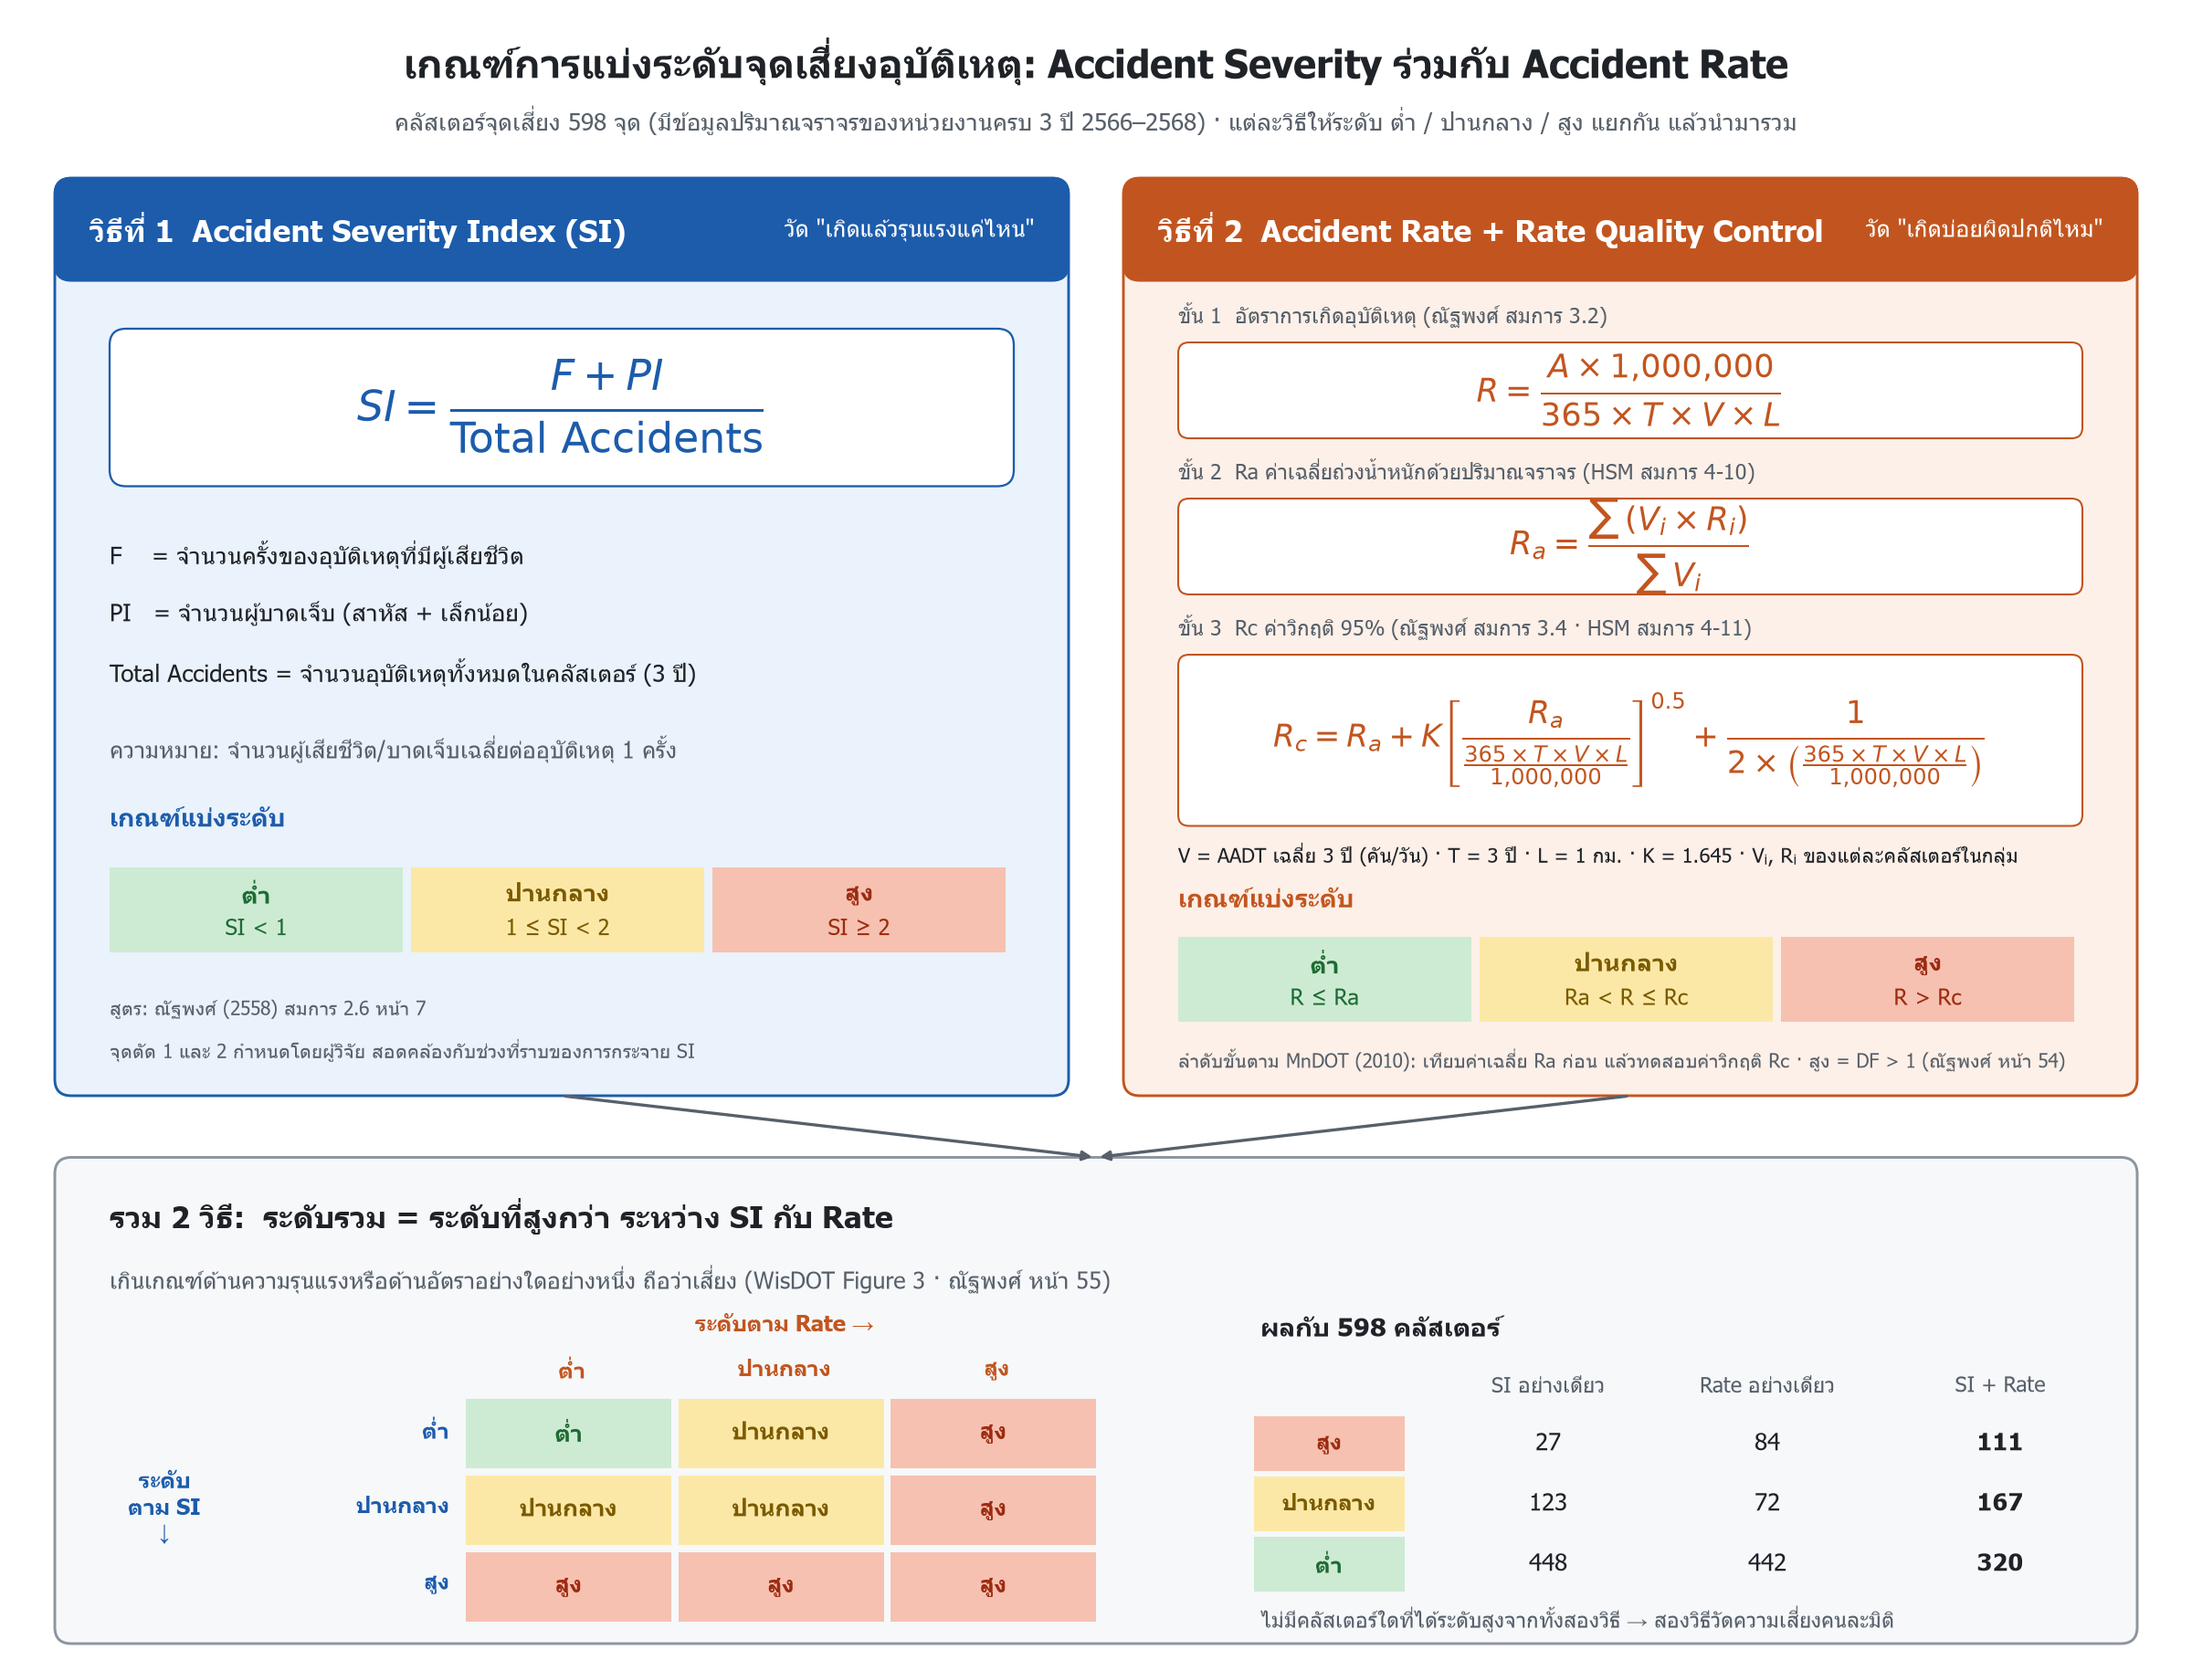
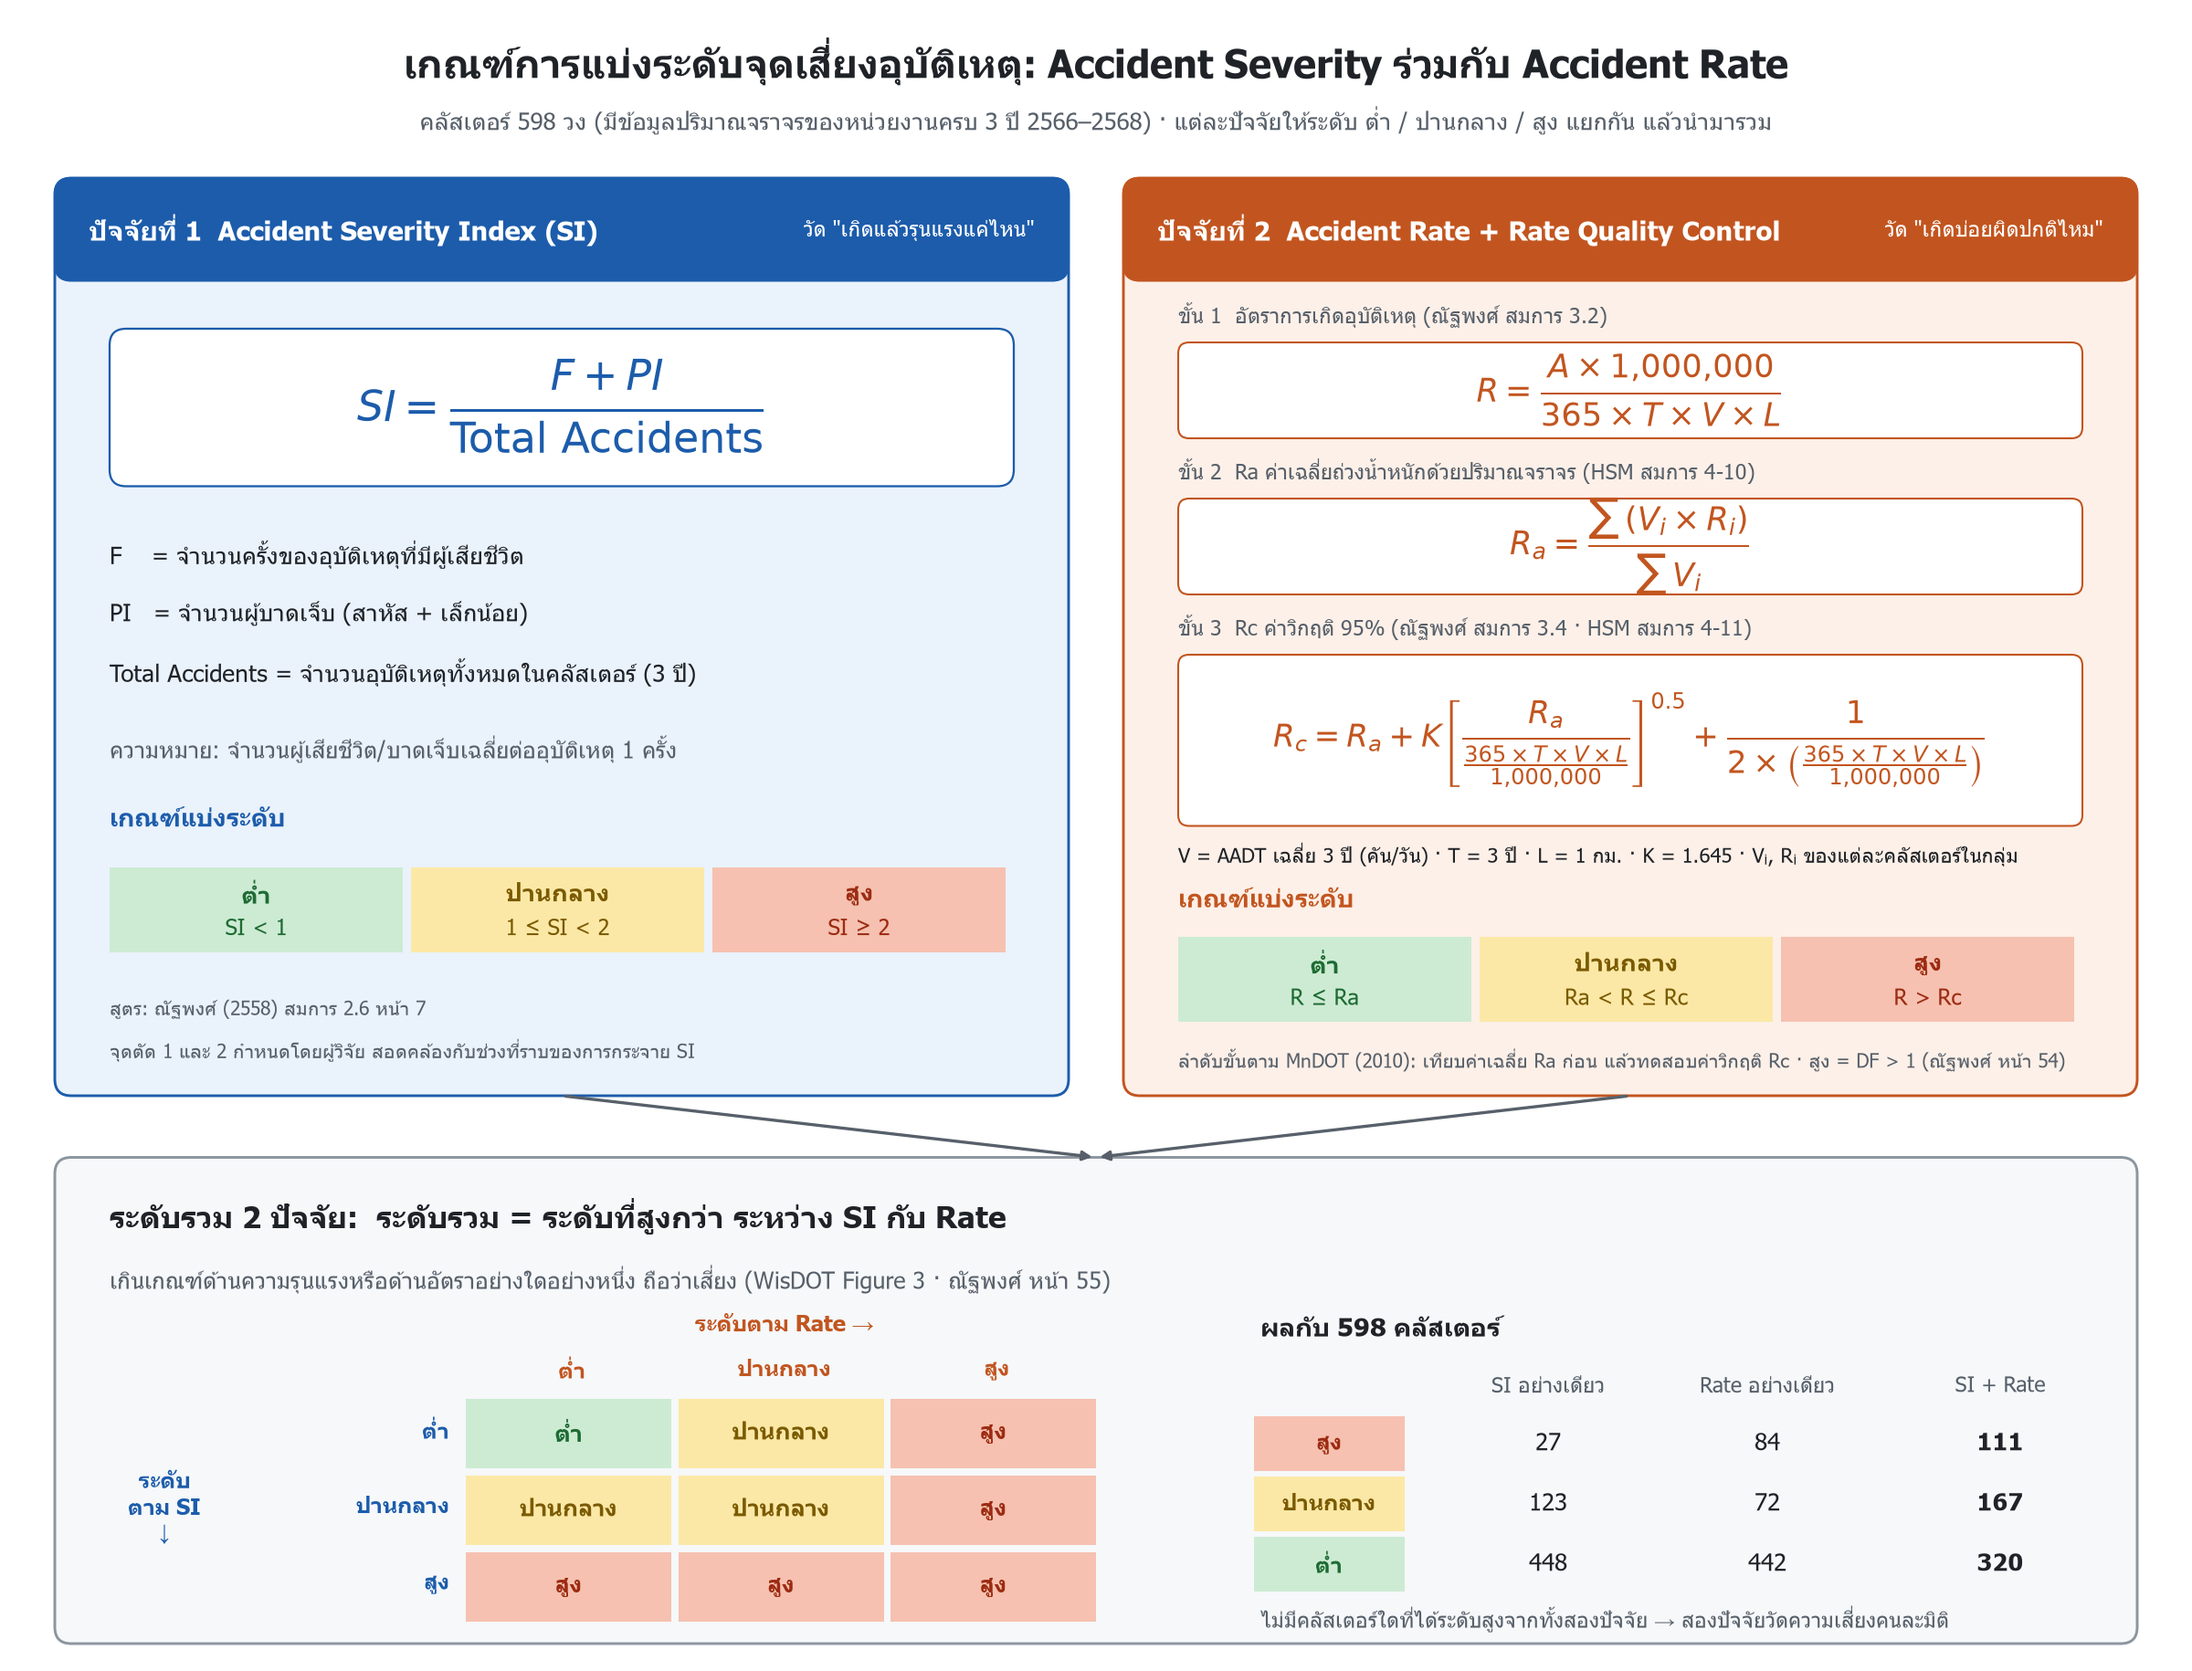
Figure 4-8 labels use factor 1/2 and combined level; fix Beitian typo in --checkgps

diff --git a/analysis/accident-rate/scripts/figure_criteria.py b/analysis/accident-rate/scripts/figure_criteria.py
@@ -29,15 +29,15 @@ def level_bar(x, y, w, labels, conds, h=6.2):
 
 # ---------- หัวเรื่อง
 t(80, 117.5, "เกณฑ์การแบ่งระดับจุดเสี่ยงอุบัติเหตุ: Accident Severity ร่วมกับ Accident Rate", 20, INK, "bold", ha="center")
-t(80, 113.2, "คลัสเตอร์จุดเสี่ยง 598 จุด (มีข้อมูลปริมาณจราจรของหน่วยงานครบ 3 ปี 2566–2568) · แต่ละวิธีให้ระดับ ต่ำ / ปานกลาง / สูง แยกกัน แล้วนำมารวม",
+t(80, 113.2, "คลัสเตอร์ 598 วง (มีข้อมูลปริมาณจราจรของหน่วยงานครบ 3 ปี 2566–2568) · แต่ละปัจจัยให้ระดับ ต่ำ / ปานกลาง / สูง แยกกัน แล้วนำมารวม",
   12.5, MUTED, ha="center")
 
 # ---------- ① SI
 X1, W = 4, 74
 box(X1, 42, W, 67, BLUE_BG, BLUE)
 ax.add_patch(FancyBboxPatch((X1, 101.5), W, 7.5, boxstyle="round,pad=0,rounding_size=1.2", fc=BLUE, ec=BLUE))
-t(X1 + 2.5, 105.2, "วิธีที่ 1  Accident Severity Index (SI)", 16, "white", "bold")
-t(X1 + W - 2.5, 105.2, "วัด \"เกิดแล้วรุนแรงแค่ไหน\"", 12, "white", ha="right")
+t(X1 + 2.5, 105.2, "ปัจจัยที่ 1  Accident Severity Index (SI)", 14, "white", "bold")
+t(X1 + W - 2.5, 105.2, "วัด \"เกิดแล้วรุนแรงแค่ไหน\"", 11, "white", ha="right")
 box(X1 + 4, 86.5, W - 8, 11.5, "white", BLUE, lw=1.1)
 t(X1 + W / 2, 92.3, r"$SI = \dfrac{F + PI}{\mathrm{Total\ Accidents}}$", 22, BLUE, ha="center")
 for i, s in enumerate(["F    = จำนวนครั้งของอุบัติเหตุที่มีผู้เสียชีวิต",
@@ -54,8 +54,8 @@ t(X1 + 4, 45.3, "จุดตัด 1 และ 2 กำหนดโดยผู
 X2 = 82
 box(X2, 42, W, 67, ORG_BG, ORG)
 ax.add_patch(FancyBboxPatch((X2, 101.5), W, 7.5, boxstyle="round,pad=0,rounding_size=1.2", fc=ORG, ec=ORG))
-t(X2 + 2.5, 105.2, "วิธีที่ 2  Accident Rate + Rate Quality Control", 16, "white", "bold")
-t(X2 + W - 2.5, 105.2, "วัด \"เกิดบ่อยผิดปกติไหม\"", 12, "white", ha="right")
+t(X2 + 2.5, 105.2, "ปัจจัยที่ 2  Accident Rate + Rate Quality Control", 14, "white", "bold")
+t(X2 + W - 2.5, 105.2, "วัด \"เกิดบ่อยผิดปกติไหม\"", 11, "white", ha="right")
 steps = [("ขั้น 1  อัตราการเกิดอุบัติเหตุ (ณัฐพงศ์ สมการ 3.2)", r"$R = \dfrac{A \times 1{,}000{,}000}{365 \times T \times V \times L}$", 7.0, 17),
          ("ขั้น 2  Ra ค่าเฉลี่ยถ่วงน้ำหนักด้วยปริมาณจราจร (HSM สมการ 4-10)", r"$R_a = \dfrac{\sum\,(V_i \times R_i)}{\sum\,V_i}$", 7.0, 17),
          ("ขั้น 3  Rc ค่าวิกฤติ 95% (ณัฐพงศ์ สมการ 3.4 · HSM สมการ 4-11)",
@@ -78,7 +78,7 @@ for x in (X1 + W / 2, X2 + W / 2):
 
 # ---------- ③ รวม
 box(4, 2, 152, 35.5, "#F6F8FA", "#8C959F")
-t(8, 33.2, "รวม 2 วิธี:  ระดับรวม = ระดับที่สูงกว่า ระหว่าง SI กับ Rate", 16, INK, "bold")
+t(8, 33.2, "ระดับรวม 2 ปัจจัย:  ระดับรวม = ระดับที่สูงกว่า ระหว่าง SI กับ Rate", 16, INK, "bold")
 t(8, 28.6, "เกินเกณฑ์ด้านความรุนแรงหรือด้านอัตราอย่างใดอย่างหนึ่ง ถือว่าเสี่ยง (WisDOT Figure 3 · ณัฐพงศ์ หน้า 55)", 12, MUTED)
 # ตาราง 3x3
 gx, gy, cw, ch = 34, 3.6, 15.5, 5.6
@@ -107,7 +107,7 @@ for i, (lab, a, b, c, fc, tc) in enumerate(data):
     t(rx + 5, y, lab, 11.5, tc, "bold", ha="center")
     for x, v, bold in ((xs[1], a, False), (xs[2], b, False), (xs[3], c, True)):
         t(x + 6, y, f"{v}", 12.5, INK, "bold" if bold else "normal", ha="center")
-t(rx, 3.8, "ไม่มีคลัสเตอร์ใดที่ได้ระดับสูงจากทั้งสองวิธี → สองวิธีวัดความเสี่ยงคนละมิติ", 10.8, MUTED)
+t(rx, 3.8, "ไม่มีคลัสเตอร์ใดที่ได้ระดับสูงจากทั้งสองปัจจัย → สองปัจจัยวัดความเสี่ยงคนละมิติ", 10.8, MUTED)
 
 fig.savefig(OUT, dpi=150, facecolor=BG)
 print("saved", OUT)

diff --git a/device/pi_alert_client.py b/device/pi_alert_client.py
@@ -1128,7 +1128,7 @@ def _alert_client_service_running():
 def check_gps(port=None):
     """ดูว่าตัวรับ GPS ส่งอะไรมาบ้าง จับดาวได้กี่ดวง — ใช้ตอน --serial แล้วไม่ได้พิกัด"""
     print("=" * 62)
-    print("ตรวจตัวรับ GPS (Beltian BE-609U)")
+    print("ตรวจตัวรับ GPS (Beitian BE-609U)")
     print("=" * 62)
 
     if _alert_client_service_running():
